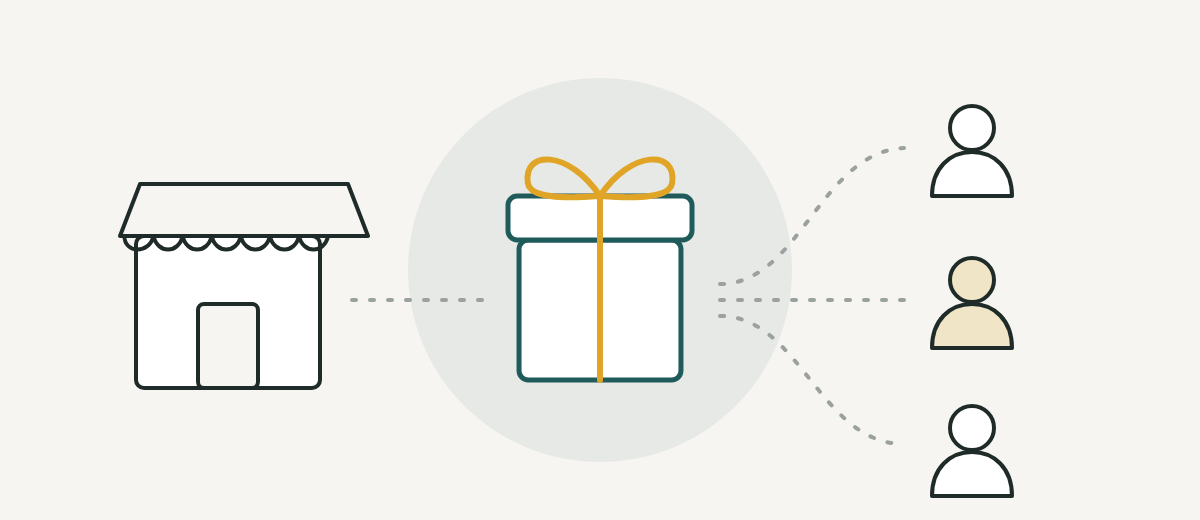
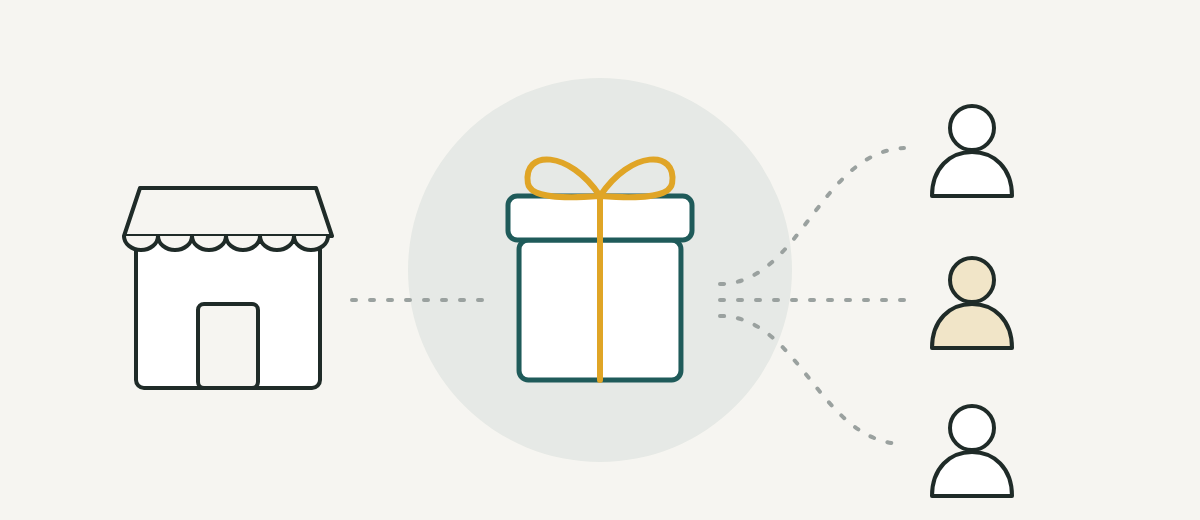
Blog: dark cover back for the inducements post, and a neater shop roof
Claude-Session: https://claude.ai/code/session_012Vi2C3pbGwJMH3zVt1ii12

Changed region(s): [[0.0925, 0.3385, 0.3083, 0.4923]]

diff --git a/content/blog/ndis-inducements-gifts/post.md b/content/blog/ndis-inducements-gifts/post.md
@@ -5,7 +5,7 @@ keyword: NDIS inducements
 category: Policies
 checked: 2026-11-03
 date: 2026-11-03
-photo_alt: Line drawing of a wrapped gift with a tag that says 20 Nov
+photo_alt: NDIS inducements ban: what providers can still give, from 20 November 2026, with a line drawing of a gift tagged 20.11.26
 ---
 
 > **Quick answer:** From 20 November 2026, mostly no. The NDIS inducements ban makes it an offence for any provider, registered or unregistered, to give or offer anything that's reasonably likely to get someone to start, keep or increase using their services, whether it goes to the participant, their family or someone who refers to you. Genuine discounts and your own branded merchandise, like a cap or tote bag, are still allowed, but the Government says cash, gift cards, alcohol, tobacco and electronic devices are banned in all cases.
